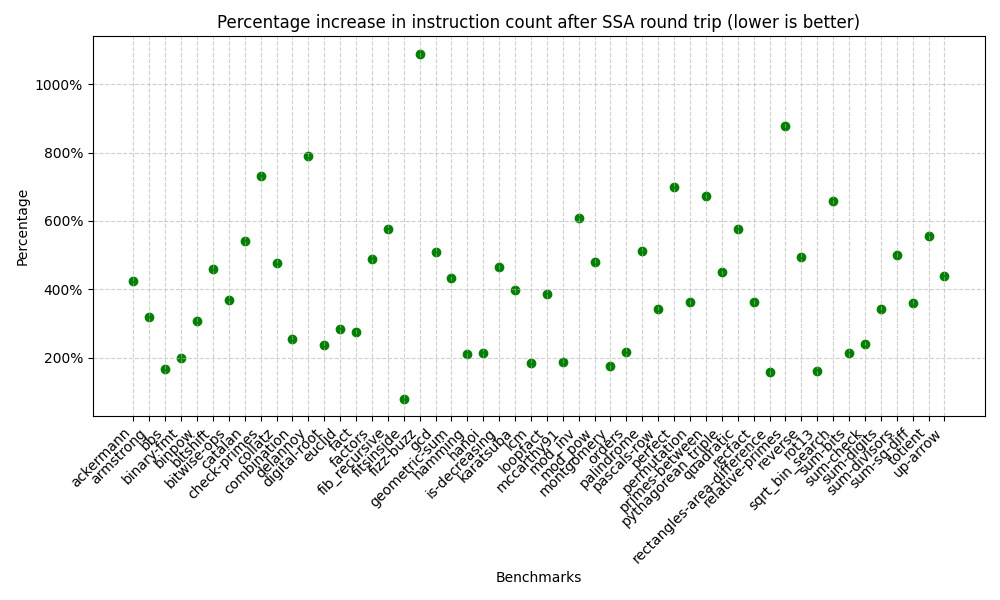
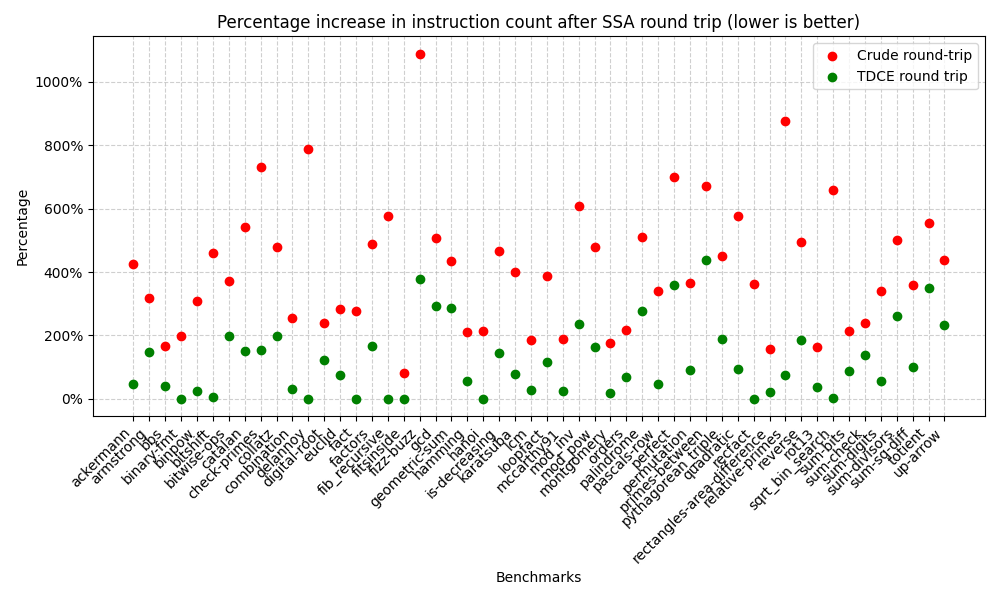
Perform TDCE after converting back to SSA

diff --git a/l6/plot_brench_results.py b/l6/plot_brench_results.py
@@ -21,7 +21,8 @@ if __name__ == "__main__":
 
     # Sort the benchmarks by the name of the benchmark file
     benchmarks = list(sorted({benchmark for (benchmark, _, _) in data}))
-    results = []
+    crude_results = []
+    tdce_results = []
 
     for benchmark in benchmarks:
         baseline_result = next(
@@ -29,21 +30,31 @@ if __name__ == "__main__":
             for (bench_name, run, result) in data
             if bench_name == benchmark and run == "baseline"
         )
-        roundtrip_result = next(
+        crude_roundtrip_result = next(
             result
             for (bench_name, run, result) in data
             if bench_name == benchmark and run == "crude-roundtrip"
         )
+        tdce_roundtrip_result = next(
+            result
+            for (bench_name, run, result) in data
+            if bench_name == benchmark and run == "tdce-roundtrip"
+        )
 
-        results.append(compute_percentage(roundtrip_result, baseline_result))
+        crude_results.append(compute_percentage(crude_roundtrip_result, baseline_result))
+        tdce_results.append(compute_percentage(tdce_roundtrip_result, baseline_result))
 
-    avg_increase = round(mean(results) * 100, 2)
-    print(f'Mean increase of {avg_increase}% in instruction count after SSA round trip')
+    avg_crude_increase = round(mean(crude_results) * 100, 2)
+    avg_tdce_increase = round(mean(tdce_results) * 100, 2)
+    print("Mean increase in instruction count:")
+    print(f'Crude roundtrip: {avg_crude_increase}%')
+    print(f'TCDE roundtrip: {avg_tdce_increase}%')
 
     x = range(len(benchmarks))
     plt.figure(figsize=(10, 6))
 
-    plt.scatter(x, results, color="green")
+    plt.scatter(x, crude_results, color="red", label="Crude round-trip", zorder=2)
+    plt.scatter(x, tdce_results, color="green", label="TDCE round trip", zorder=2) 
 
     plt.title(
         "Percentage increase in instruction count after SSA round trip (lower is better)"
@@ -55,6 +66,7 @@ if __name__ == "__main__":
 
     plt.xlabel("Benchmarks")
     plt.ylabel("Percentage")
+    plt.legend()
     plt.grid(zorder=1, linestyle="--", alpha=0.6)
 
     plot_filename = "plot.png"
